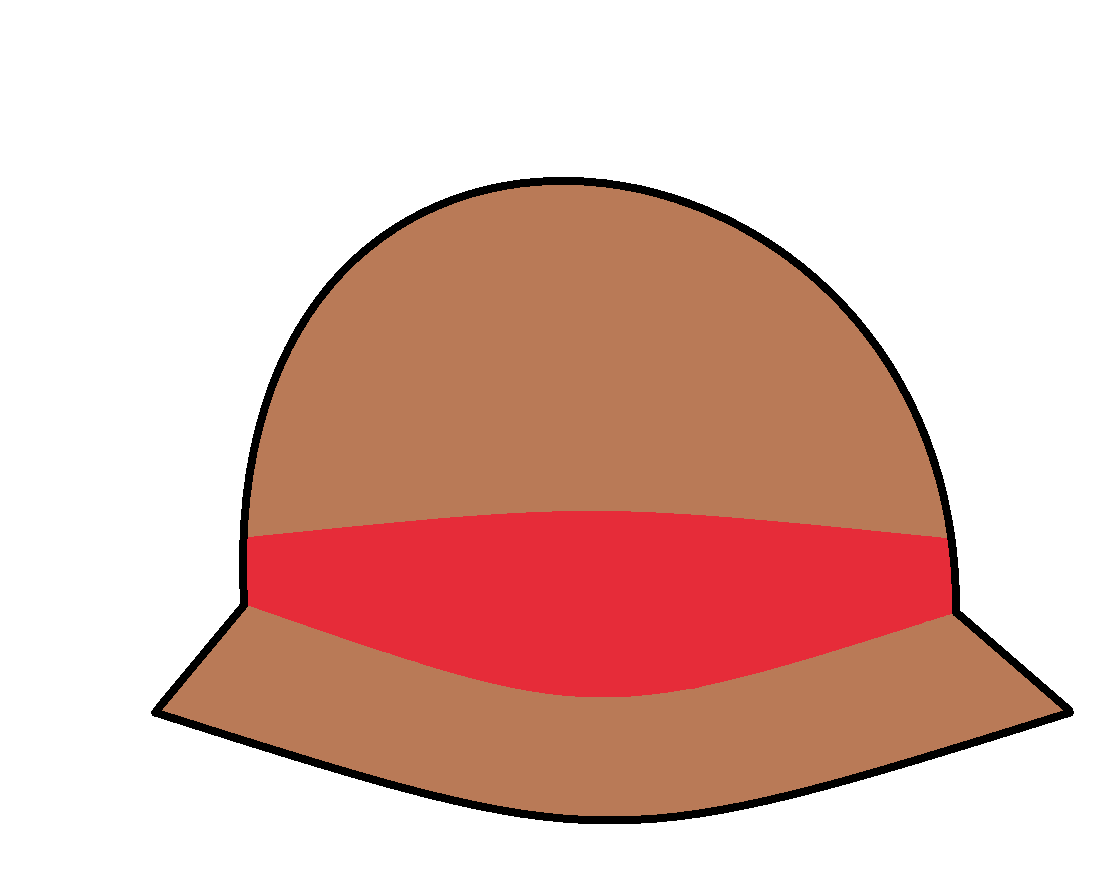
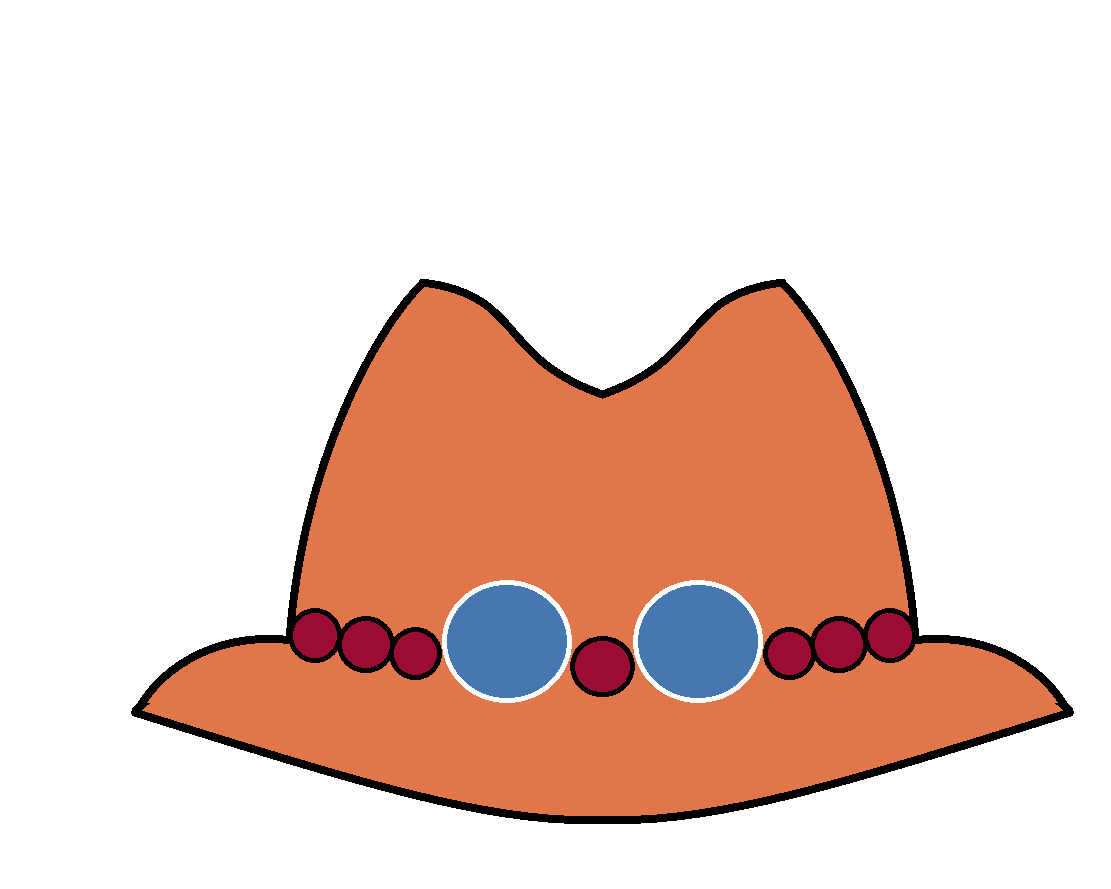
Bug Fixes Before Submission
Cowboy hat and top hat images updated.
longestObtainedStreak and longestCurrentStreak updated.
Login screen changes for profile creation and slogan.

diff --git a/src/screens/ShopScreen.js b/src/screens/ShopScreen.js
@@ -6,13 +6,12 @@ import { View, Text, TouchableOpacity, StyleSheet, SafeAreaView, StatusBar, Flat
 import { AntDesign, FontAwesome } from '@expo/vector-icons';
 import { db, auth } from '../firebase/firebaseConfig';
 import { collection, getDocs, doc, getDoc, updateDoc, arrayUnion, runTransaction } from 'firebase/firestore';
-import petImages from '../utils/petImages'; // Import pet images
+import petImages from '../utils/petImages';
 
 const ShopScreen = ({ navigation }) => {
   const [shopItems, setShopItems] = useState([]);
   const [userData, setUserData] = useState({ currency: 0, ownedItems: [], equippedItems: {} });
 
-  // Function to fetch the current user data from Firestore
   const fetchUserData = async () => {
     const userRef = doc(db, "Users", auth.currentUser.uid);
     const docSnap = await getDoc(userRef);
@@ -269,32 +268,32 @@ const styles = StyleSheet.create({
     padding: 10,
   },
   categoryContainer: {
-    padding: 5, // Reduced padding
+    padding: 5,
   },
   categoryTitle: {
     fontSize: 20,
     fontWeight: 'bold',
-    marginBottom: 5, // Reduced margin
+    marginBottom: 5,
     color: '#ff6f00',
   },
   list: {
-    padding: 5, // Reduced padding
+    padding: 5,
   },
   item: {
     backgroundColor: '#ff6f00',
     borderRadius: 10,
-    borderColor: 'white', 
-    borderWidth: 3, 
-    padding: 8, 
+    borderColor: 'white',
+    borderWidth: 3,
+    padding: 8,
     margin: 4,
-    flex: 1 / 3, 
+    flex: 1 / 3,
     alignItems: 'center',
     justifyContent: 'center',
-    minHeight: 160, 
+    minHeight: 160,
   },
   itemName: {
     fontSize: 18,
-    fontWeight: 'bold', 
+    fontWeight: 'bold',
     color: 'white',
     marginBottom: 8,
   },
@@ -315,9 +314,9 @@ const styles = StyleSheet.create({
   },
   icon: {
     width: 50, 
-    height: 50, // Reduced size for better fit
+    height: 50,
     marginBottom: 2,
-    resizeMode: 'contain', // Ensure the whole image fits
+    resizeMode: 'contain',
   },
   iconPlaceholder: {
     width: 70,
@@ -334,7 +333,7 @@ const styles = StyleSheet.create({
     backgroundColor: '#f44336',
   },
   flatListContent: {
-    paddingBottom: 10, // Reduced padding
+    paddingBottom: 10,
   },
 });
 

diff --git a/src/screens/BadgesScreen.js b/src/screens/BadgesScreen.js
@@ -36,7 +36,6 @@ const BadgesScreen = ({ navigation }) => {
     }
 
     const userData = userSnap.data();
-    //console.log(`User data: ${JSON.stringify(userData)}`);
     
     if (!userData.badges) {
       console.log('User has no badges field.');
@@ -46,13 +45,11 @@ const BadgesScreen = ({ navigation }) => {
     // Fetch details for each badge
     const badgesDetails = await Promise.all(
       userData.badges.map(async (userBadge) => {
-        //console.log(`Fetching badge with ID: ${userBadge.badgeId}`);
         const badgeRef = doc(db, 'Badges', userBadge.badgeId);
         const badgeSnap = await getDoc(badgeRef);
         
         if (badgeSnap.exists()) {
           const badgeData = badgeSnap.data();
-          //console.log(`Badge data: ${JSON.stringify(badgeData)}`);
           const tierInfo = badgeData.tiers.find(tier => tier.tier === userBadge.highestTierAchieved);
           
           return {
@@ -63,13 +60,10 @@ const BadgesScreen = ({ navigation }) => {
             imageURL: tierInfo.imageURL,
           };
         } else {
-          //console.log(`No badge found with ID: ${userBadge.badgeId}`);
           return null;
         }
       })
     );
-
-    //console.log(`Badges details fetched: ${JSON.stringify(badgesDetails)}`);
     return badgesDetails.filter(badge => badge !== null);
   };
 

diff --git a/src/screens/ProfileScreen.js b/src/screens/ProfileScreen.js
@@ -20,7 +20,6 @@ const ProfileScreen = ({ navigation, route }) => {
         if (docSnap.exists()) {
           setUserData(docSnap.data());
         } else {
-          // Handle case where user data does not exist (e.g., invalid userId)
           console.log("No user data found.");
         }
       });
@@ -120,8 +119,8 @@ const styles = StyleSheet.create({
     height: 300,
     alignItems: 'center',
     justifyContent: 'center',
-    overflow: 'visible', // Ensure the hat is not cut off
-    marginBottom: 20, // Add some space between the pet image and the stats
+    overflow: 'visible',
+    marginBottom: 20,
   },
   petImage: {
     width: '100%',
@@ -133,7 +132,7 @@ const styles = StyleSheet.create({
     width: 300,
     resizeMode: 'contain',
     top: -460,
-    zIndex: 1, // Ensure hat is in front
+    zIndex: 1,
   },
   glassesImage: {
     position: 'absolute',
@@ -142,7 +141,7 @@ const styles = StyleSheet.create({
     resizeMode: 'contain',
     top: -115,
     right: -1,
-    zIndex: 0, // Ensure glasses are behind the hat
+    zIndex: 0,
   },
   infoText: {
     fontSize: 22,

diff --git a/src/screens/HabitsScreen.js b/src/screens/HabitsScreen.js
@@ -159,6 +159,10 @@ const HabitsScreen = ({ navigation }) => {
         }
       }
 
+      // Update longest current streak and longest obtained streak
+      const longestCurrentStreak = Math.max(newStreak, userDoc.data().longestCurrentStreak || 0);
+      const longestObtainedStreak = Math.max(newStreak, userDoc.data().longestObtainedStreak || 0);
+
       transaction.update(habitRef, {
         streak: newStreak,
         status: "complete",
@@ -169,12 +173,13 @@ const HabitsScreen = ({ navigation }) => {
         currency: newCurrency,
         happinessMeter: newHappiness,
         totalCurrencyEarned: totalCurrencyEarned,
-        badges: userBadges
+        badges: userBadges,
+        longestCurrentStreak: longestCurrentStreak,
+        longestObtainedStreak: longestObtainedStreak
       });
     });
   };
 
-  // Function to delete a habit from Firestore.
   const deleteHabit = async (habitId) => {
     Alert.alert('Delete Habit', 'Are you sure you want to delete this habit?', [
       { text: 'Cancel' },

diff --git a/src/screens/SettingsScreen.js b/src/screens/SettingsScreen.js
@@ -14,9 +14,8 @@ const SettingsScreen = ({ navigation }) => {
   const [newPetName, setNewPetName] = useState('');
   const [currentUsername, setCurrentUsername] = useState('');
   const [currentPetName, setCurrentPetName] = useState('');
-  const [backgroundColour, setBackgroundColour] = useState('lightgrey'); // For background color updates
+  const [backgroundColour, setBackgroundColour] = useState('lightgrey');
 
-  // Listen for real-time updates to the user's document to maintain fresh state
   useEffect(() => {
     const user = auth.currentUser;
     if (user) {
@@ -77,7 +76,6 @@ const SettingsScreen = ({ navigation }) => {
     }
   };
 
-  // Function to display credits in a styled modal view
   const handleShowCredits = () => {
     setModalVisible(true);
   };

diff --git a/src/screens/LoginScreen.js b/src/screens/LoginScreen.js
@@ -55,7 +55,8 @@ function LoginScreen({ navigation }) {
               equippedItems: {
                 backgroundColour: 'lightgrey',
                 petColour: 'grey',
-                glasses: false,
+                glasses: 'none',
+                hat: 'none'
               },
               incomingRequests: [],
               outgoingRequests: []
@@ -79,7 +80,7 @@ function LoginScreen({ navigation }) {
         style={styles.logo}
         resizeMode="contain"
       />
-      <Text style={styles.tagline}>Tracking Habits with Purr-fection!</Text>
+      <Text style={styles.tagline}>Tracking Habits with Pal-tastic Results!</Text>
       {isLoading ? (
         <ActivityIndicator size="large" color="#ff6f00" />
       ) : (

diff --git a/src/screens/MessageScreen.js b/src/screens/MessageScreen.js
@@ -22,7 +22,6 @@ const MessageScreen = ({ navigation, route }) => {
             id: doc.id,
             ...doc.data(),
           }))
-          // Filter out any messages that don't have a valid timestamp
           .filter(msg => msg.timestamp && typeof msg.timestamp.seconds === 'number')
           .sort((a, b) => b.timestamp.seconds - a.timestamp.seconds);
         setMessages(loadedMessages);

diff --git a/README.md b/README.md
@@ -70,3 +70,72 @@ npx expo start --dev-client
 ```
 
 - Press 'a' to open the app on the Android emulator.
+
+## Directory Structure
+
+```
+Palseverance/
+├── .expo/                      # Expo configuration directory
+├── %ProgramData%/              # System-specific configuration
+├── functions/                  # Firebase cloud functions
+│   ├── node_modules/
+│   ├── .gitignore
+│   ├── index.js                # Firestore cloud functions
+│   ├── package-lock.json
+│   └── package.json            # Firestore cloud function dependencies and scripts
+├── node_modules/
+├── src/
+│   ├── assets/
+│   │   ├── images/
+│   │   │   ├── black-happy-cat.png
+│   │   │   ├── black-neutral-cat.png
+│   │   │   ├── black-sad-cat.png
+│   │   │   ├── ginger-happy-cat.png
+│   │   │   ├── ginger-neutral-cat.png
+│   │   │   ├── ginger-sad-cat.png
+│   │   │   ├── grey-happy-cat.png
+│   │   │   ├── grey-neutral-cat.png
+│   │   │   ├── grey-sad-cat.png
+│   │   │   ├── white-happy-cat.png
+│   │   │   ├── white-neutral-cat.png
+│   │   │   ├── white-sad-cat.png
+│   │   │   ├── glasses-black.png
+│   │   │   ├── glasses-pink.png
+│   │   │   ├── glasses-red.png
+│   │   │   ├── hat-cowboy.png
+│   │   │   ├── hat-straw.png
+│   │   │   ├── hat-top.png
+│   │   │   ├── palseverance-logo.png
+│   │   ├── adaptive-icon.png
+│   │   ├── favicon.png
+│   │   ├── icon.png
+│   │   └── splash.png
+│   ├── firebase/
+│   │   └── firebaseConfig.js   # Firebase configuration
+│   ├── screens/
+│   │   ├── BadgeScreen.js
+│   │   ├── HabitsScreen.js
+│   │   ├── HomeScreen.js
+│   │   ├── InboxScreen.js
+│   │   ├── LoginScreen.js
+│   │   ├── MessageScreen.js
+│   │   ├── ProfileScreen.js
+│   │   ├── RankScreen.js
+│   │   ├── SettingsScreen.js
+│   │   └── ShopScreen.js
+│   └── utils/
+│       └── petImages.js        # Pet images and accessories
+├── .firebaserc                 # Firebase project configuration
+├── .gitignore
+├── App.js                      # Entry point for the React Native application
+├── app.json                    # Expo configuration file
+├── babel.config.js             # Babel configuration file
+├── eas.json                    # Expo Application Services configuration
+├── firebase.json               # Firebase service configuration
+├── firestore.rules             # Firestore security rules
+├── google-services.json        # Firebase configuration file
+├── metro.config.js             # Metro bundler configuration file
+├── package-lock.json
+├── package.json                # Main project dependencies and scripts
+└── README.md                   # Readme file with instructions and structure
+```
